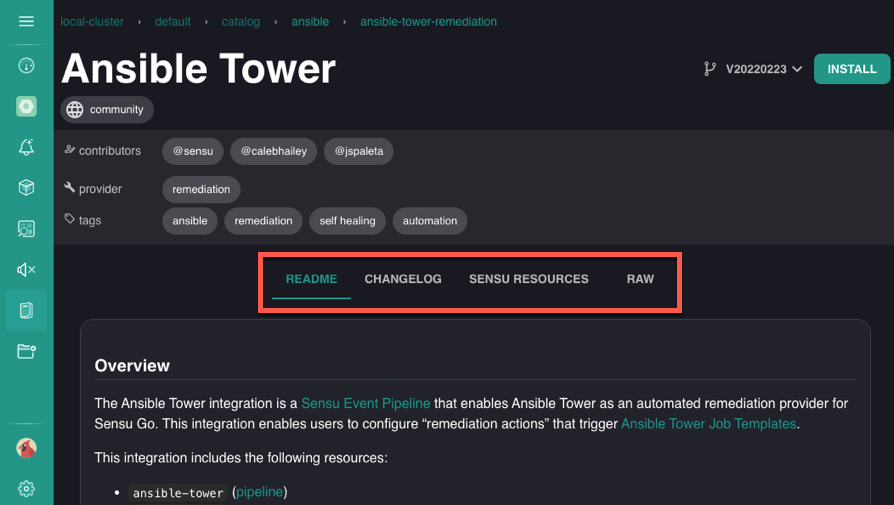
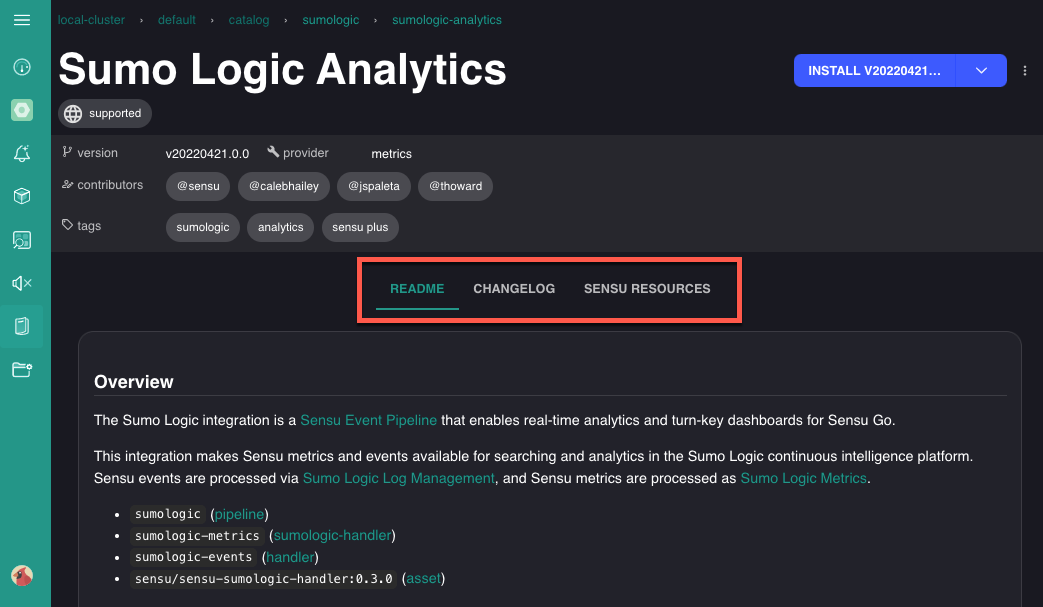
Update Catalog screenshots and gifs

diff --git a/content/sensu-go/6.7/web-ui/sensu-catalog.md b/content/sensu-go/6.7/web-ui/sensu-catalog.md
@@ -61,8 +61,6 @@ Three categories describe the integration class:
 - **Supported**: Integrations that Sensu developed. Supported integrations may be [commercial features][7] that require a valid Sensu [license][8].
 - **Community**: Integrations contributed by members of the Sensu community. Community integrations are free and open-source.
 
-The **Sensu Plus** category includes our [Sensu Plus][12]-enabled integrations, which provide turnkey analytics via Sumo Logic applications and dashboards.
-
 The rest of the categories are based on the integration's function, like cloud monitoring or automated remediation.
 
 ### Browse a metadata-based list
@@ -113,7 +111,7 @@ In the Sensu Catalog, integrations are represented by tiles.
 When you click an integration tile, the integration's detail page opens.
 The detail page includes tabs for **README**, **CHANGELOG**, **SENSU RESOURCES**, and **RAW**.
 
-{{< figure src="/images/catalog_integration_info_tabs.png" alt="Location of README, CHANGELOG, SENSU RESOURCES, and RAW tabs for an integration in the Sensu Catalog" link="/images/catalog_integration_info_tabs.png" target="_blank" >}}
+{{< figure src="/images/catalog_integration_info_tabs.png" alt="Location of README, CHANGELOG, and SENSU RESOURCES tabs for an integration in the Sensu Catalog" link="/images/catalog_integration_info_tabs.png" target="_blank" >}}
 
 The **README** tab contains detailed information about the integration, including an overview, supported dashboards, setup instructions, the plugins the integration requires, the metrics and alerts the integration generates, and links to reference information.
 The **README** also describes any additional configuration needed to use the integration, like subscriptions to add to agent entities or secrets to create for sensitive information.
@@ -127,10 +125,6 @@ Click the `yaml` or `json` buttons to select the format for each definition.
 **NOTE**: The SENSU RESOURCES tab lists example resource definitions that you must configure and install.
 Use the **INSTALL** button to [configure and install the integration](#configure-and-install-an-integration) directly from your browser or copy the example definitions to configure and create with [sensuctl](../../sensuctl/create-manage-resources/) or the Sensu [API](../../api/).
 {{% /notice %}}
-
-The **RAW** tab contains the resource definition for the integration itself.
-The raw resource definition allows you to customize the integration if needed.
-Click the `yaml` or `json` buttons to select the format for the integration definition.
 
 ## Configure and install an integration
 
@@ -163,18 +157,6 @@ Click the dropdown arrows to review the resource definitions:
 
 The resulting resource definitions represent Sensu's recommended configuration for the integration.
 
-### Integration versions
-
-When you click the **INSTALL** button, Sensu automatically installs the newest version of the integration.
-
-If an integration has multiple versions, you can click the dropdown arrow next to the **INSTALL** button to select them.
-
-If you previously installed the integration, the first version number listed represents the integration's current file on disk.
-The version number for your current file will start with `9999`.
-
-After the number for your current file on disk, other versions of the integration are listed from oldest to newest.
-Select a version number to review version-specific information like the README and changelog.
-
 ## Use secrets in integrations
 
 The Sensu Catalog integrations are preconfigured to use Sensu's `Env` secrets provider for sensitive information the integrations might require, like passwords and API tokens.
@@ -186,10 +168,10 @@ You can reuse the same integration as long as all resource definitions have uniq
 When you install an integration, Sensu checks your existing resources before creating new resources.
 If Sensu finds an existing resource with the same name, the configuration wizard will prompt you to either change the names of the existing resources or acknowledge that the new resources should overwrite the existing resources.
 
-If you want to keep the existing resources, use the [Sensu API][11] to change their names with PUT requests.
+If you want to keep the existing resources, use the [Sensu API][11] to change their names with PUT requests before you continue and create the new resources.
 Otherwise, click **OVERWRITE** to replace the existing resources with the new resources.
 
-{{< figure src="/images/rename_overwrite_prompt.gif" alt="Summary page of configuration wizard for a Sensu Catalog integration" link="/images/rename_overwrite_prompt.gif" target="_blank" >}}
+{{< figure src="/images/rename_overwrite_prompt.gif" alt="Summary page of configuration wizard with overwrite warning for a duplicate Sensu Catalog integration" link="/images/rename_overwrite_prompt.gif" target="_blank" >}}
 
 ## View and manage your integrations
 
@@ -220,7 +202,6 @@ For contributing guidelines and more information, visit the [Sensu Catalog GitHu
 [9]: ../view-manage-resources/
 [10]: ../../sensuctl/create-manage-resources/
 [11]: ../../api/
-[12]: ../../sensu-plus/
 [13]: #get-information-about-an-integration
 [14]: #configure-and-install-an-integration
 [15]: ../../operations/monitoring-as-code/

diff --git a/content/sensu-go/6.7/release-notes.md b/content/sensu-go/6.7/release-notes.md
@@ -107,7 +107,7 @@ Read the [upgrade guide][1] for information about upgrading to the latest versio
 
 **April 21, 2022** &mdash; The latest release of Sensu Go, version 6.7.0, is now available for download.
 
-Sensu Go 6.7.0 includes a number of new features, improvements and fixes, including Sensu Go's newest feature, catalogs. Catalogs provide a marketplace within the Sensu UI for or simplifying new user onboarding, and deploying production-ready monitoring in a matter of minutes. In addition to adding catalogs, metric threshold evaluation, keepalive pipelines and the ability to subdue checks have also been added. Sensu Go 6.7.0 improves the onboarding workflow for Sensu Plus, allowing users to seamlessly transmit Sensu observability data to the Sumo Logic platform. Improvements also include support for arrays of strings and objects in the `sensu.CheckDependencies` Sensu query expression, improvements to the GlobalConfig specification, the addition of a sensu-system namespace, and more. Fixes included in Sensu Go 6.7.0 include fixes to the TCP stream handler `max_connections` behavior, the inclusion of pipelines wihin the event.check object, socket handler behavior and ARM platform detection.  
+Sensu Go 6.7.0 includes a number of new features, improvements and fixes, including Sensu Go's newest feature, the Sensu Catalog. The Catalog is a marketplace within the Sensu web UI that facilitates new user onboarding and deploying production-ready monitoring in minutes. Sensu Go 6.7.0 also includes metric threshold evaluation, keepalive pipelines, and check subdues. We've improved the onboarding workflow for Sensu Plus so you can seamlessly transmit Sensu observability data to Sumo Logic, added support for arrays of strings and objects in the `sensu.CheckDependencies` Sensu query expression, added an attribute to the GlobalConfig specification, and more. Bug fixes in Sensu Go 6.7.0 include adding pipelines within the event.check object, correcting TCP stream handler `max_connections` behavior, and detecting ARM platform accurately.  
 
 Read the [upgrade guide][1] to upgrade Sensu to version 6.7.0.
 
